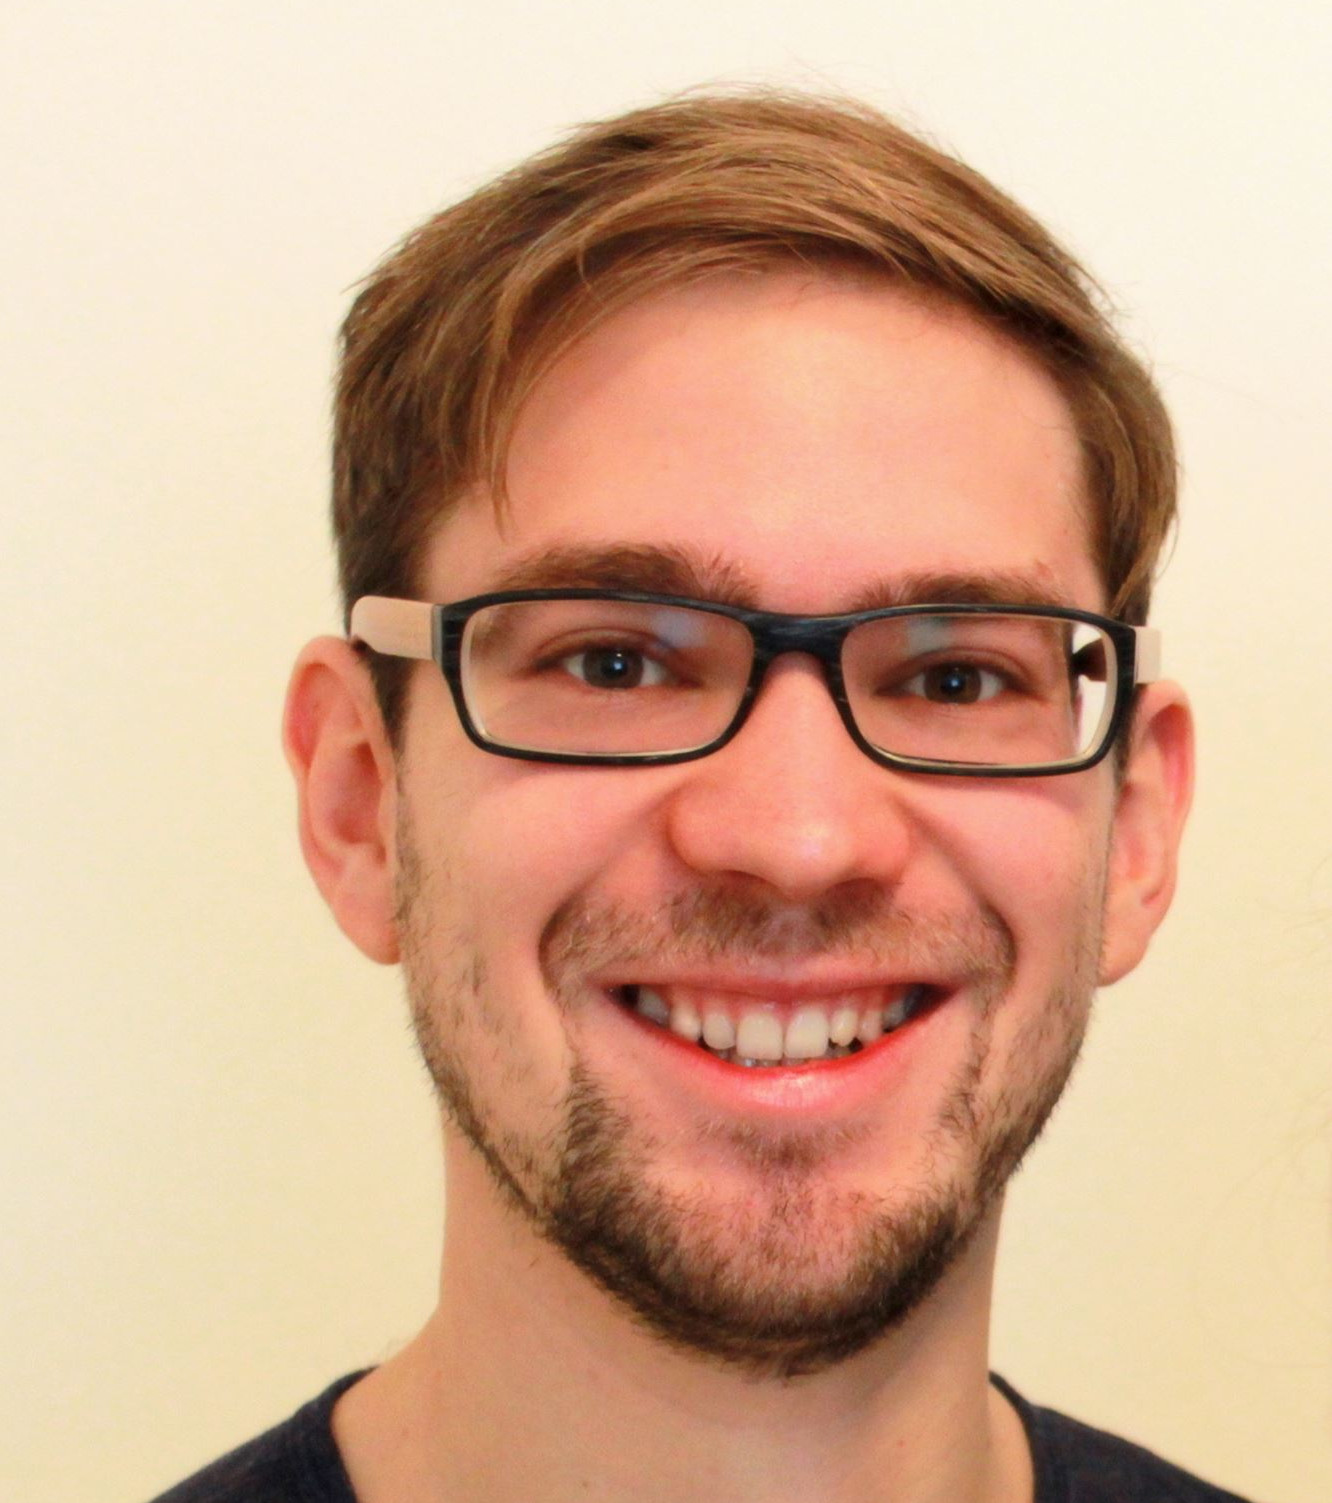
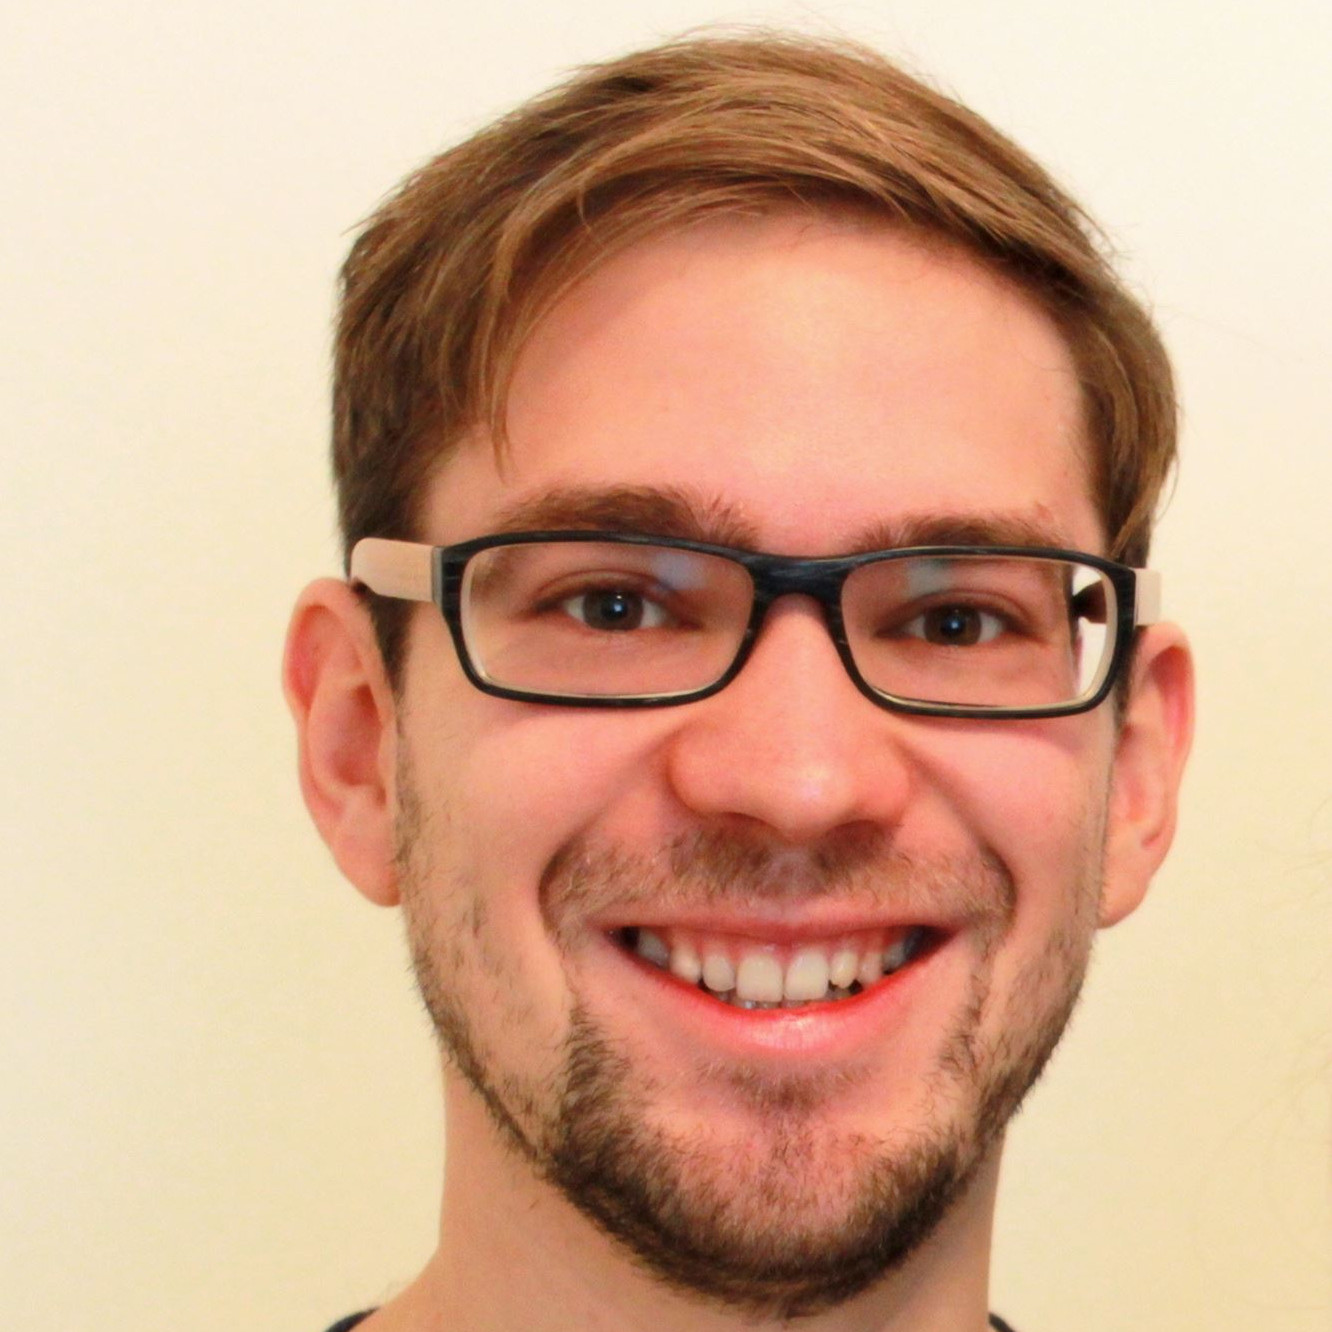
animation of voronoi diagram

diff --git a/themes/imperfect/static/js/vis/voronoi.js b/themes/imperfect/static/js/vis/voronoi.js
@@ -2,7 +2,7 @@ var w             = 0.992 * window.innerWidth,
   h             =  0.992 *window.innerHeight,
   radius        = 5.25,
   links         = [],
-  cellsize      = 300,
+  cellsize      = 10,
   cellpadding   = 40,
   bleed         = 0,
   fillopacity   = 0.50,
@@ -34,7 +34,7 @@ var voronoi = d3.geom.voronoi()
 
 var prevEventScale = 1;
 
-function grow(){
+function grow(d){
   angle = radius * vertices.length;
   vertices.push({x: angle*Math.cos(angle)+(w/2), y: angle*Math.sin(angle)+(h/2)});
   force.nodes(vertices).start();
@@ -44,7 +44,6 @@ function shrink(){
   vertices.pop();
   force.nodes(vertices).start();
 }
-
 
 // define zoom
 var zoom = d3.behavior.zoom().on("zoom", function(d,i) {
@@ -68,6 +67,7 @@ var zoom = d3.behavior.zoom().on("zoom", function(d,i) {
              force.nodes(vertices).start();
            }
            prevEventScale = d3.event.scale;
+           console.log(prevEventScale)
          });
 
 // define hotkeys
@@ -111,7 +111,6 @@ var svg = d3.select("#main")
           .attr("height", h)
           .call(zoom);
 
-
 // define force parameters
 var force = d3.layout.force()
             .charge(-800)
@@ -121,13 +120,15 @@ var force = d3.layout.force()
 // use the force
 force.nodes(vertices).start();
 
-// for (i=0; i < 101; i++) {
-//   console.log(i)
-//   // d3.dealy(100)
-//   grow()
-// }
+for(i=-5; i<80; i++){
+  zoom.scale(i);
+  svg.transition()
+    .duration(4000)
+    .ease("exp")
+    .call(zoom.event)
+}
 
-// d3.select("svg").transition()
+
 
 // define paths
 var path = svg.append("g").attr("class", "bubbles").selectAll("path");

diff --git a/static/css/person.css b/static/css/person.css
@@ -16,6 +16,7 @@
 			margin: -3em 0 -3em 0;
 			position: relative;
 			width: calc(100% + 6em);
+      min-height: 25em;
 		}
 
 			.person > header .title {
@@ -38,10 +39,8 @@
 
         .person > header .meta {
           padding: 5em 0em 0em 3em ;
-          min-width: 17em;
-          max-width: 20em;
-          text-align: right;
-          width: 17em;
+          min-width: 18em;
+          text-align: center;
         }
 
           .person > header .meta > * {
@@ -81,6 +80,18 @@
           -ms-transform: scale(1.05);
           transform: scale(1.05);
         }
+
+        .circular {
+        	width: 15em;
+          max-width:15em;
+        	height: 15em;
+        	border-radius: 7.5em;
+        	-webkit-border-radius: 7.5em;
+        	-moz-border-radius: 7.5em;
+          background-position:50% 50%;
+          background-size: 15em 15em;
+          background-repeat: no-repeat;
+        	}
 
       .person > footer {
         display: -moz-flex;
@@ -176,8 +187,7 @@
               margin: 0 0 2em 0;
               padding-top: 0;
               padding: 0;
-              text-align: left;
-              width: 100%;
+              text-align: center;
             }
 
               .person > header .meta > * {

diff --git a/layouts/person/featured.html b/layouts/person/featured.html
@@ -5,8 +5,8 @@
         {{ $.Scratch.Set "structType" "page" }}
         {{ partial "img-path" . }}
         {{ $path := $.Scratch.Get "path" }}
-        <div class="image featured">
-          <img src="{{ $path }}/{{ .Params.featured }}" alt="{{ .Params.featuredalt }}" />
+        <div class="image featured circular" style = "background: url({{ $path }}/{{ .Params.featured }}); background-repeat: no-repeat; background-position: 50% 50%; background-size: 100% 100%">
+          <!-- <img src="{{ $path }}/{{ .Params.featured }}" alt="{{ .Params.featuredalt }}" /> -->
         </div>
     {{ end }}
 {{ end }}

diff --git a/themes/imperfect/layouts/index.html b/themes/imperfect/layouts/index.html
@@ -1,3 +1,5 @@
+<link rel="stylesheet" href="/css/voronoi.css" />
+<script src="//d3js.org/d3.v3.min.js"></script>
 {{ partial "header" . }}
     {{ $.Scratch.Set "shareNav" true }}
     {{ partial "navbar" . }}
@@ -8,14 +10,10 @@
     <div id="main">
     </div>
     <script type="text/javascript">
-      <!--
       if (window.innerWidth <= 1200) {
       document.location = "/about/";
       }
-      //-->
     </script>
-    <link rel="stylesheet" href="/css/voronoi.css" />
-    <script src="//d3js.org/d3.v3.min.js"></script>
     <script src="/js/vis/voronoi.js"></script>
 
 

diff --git a/layouts/person/single.html b/layouts/person/single.html
@@ -7,7 +7,7 @@
     <!-- Main -->
     <div id="main">
       <div>
-            <div class="post">
+            <div class="person">
               {{ .Render "header" }}
               <h1>Bio</h1>
               <p>

diff --git a/content/person/anna_koeferle.md b/content/person/anna_koeferle.md
@@ -2,7 +2,7 @@
 bio = "Anna studied Biochemistry at the University of Oxford and is now finishing her PhD at Universty College London, where she is using CRISPR/Cas9 technology to study the regulation of transcription in human cells. Her research interests include: the **regulation of transcription**, the **functional role of chromatin architecture**, **development of biological screens**, and non-canonical applications of **CRISPR/Cas9 technology**."
 date = "2016-05-31T23:34:07+01:00"
 name = "Anna Köferle"
-featured = "anna.jpg"
+featured = "anna.png"
 featuredalt = ""
 featuredpath = "/img/person/"
 position = "Biochemist"

diff --git a/content/person/korab_qerkini.md b/content/person/korab_qerkini.md
@@ -9,10 +9,10 @@ position = "Software Engineer, User Experience Designer"
 title = "Korab Qerkini"
 type = "person"
 category = ["people"]
-website = ""
+website = "https://www.fh-kaernten.at/de/mitarbeiter/?person=k.qerkini"
 email = "korab@qerkini.com"
 github = ""
-twitter = ""
+twitter = "KorabQerkini"
 facebook = ""
 instagram =""
 slideshare = ""

diff --git a/content/person/sebastian_vasquezlopez.md b/content/person/sebastian_vasquezlopez.md
@@ -9,4 +9,13 @@ position = "Neuroscientist"
 title = "Sebastian Vasquez-Lopez"
 type = "person"
 category = ["people"]
+website = "http://www.dpag.ox.ac.uk/team/sebastian-vasquez-lopez"
+email = "sebastian.vasquezlopez@st-hughs.ox.ac.uk"
+github = ""
+twitter = ""
+facebook = ""
+instagram =""
+slideshare = ""
+xing = ""
+linkedin = ""
 +++

diff --git a/content/person/lukas_hutter.md b/content/person/lukas_hutter.md
@@ -14,7 +14,7 @@ featured = "luki.jpg"
 featuredalt = ""
 featuredpath = "/img/person/"
 category = ["people"]
-website = ""
+website = "http://cellcycle.org.uk/bela-novak-group/lukas-hutter/"
 email = "luki.hutter@gmail.com"
 github = "el-uhu"
 twitter = "el_uhu"

diff --git a/content/person/josef_ehgarter.md b/content/person/josef_ehgarter.md
@@ -9,7 +9,7 @@ position = "Analytical Chemist"
 title = "Josef Ehgarter"
 type = "person"
 category = ["people"]
-website = ""
+website = "https://www.researchgate.net/profile/Josef_Ehgartner/publications"
 email = ""
 github = ""
 twitter = ""
